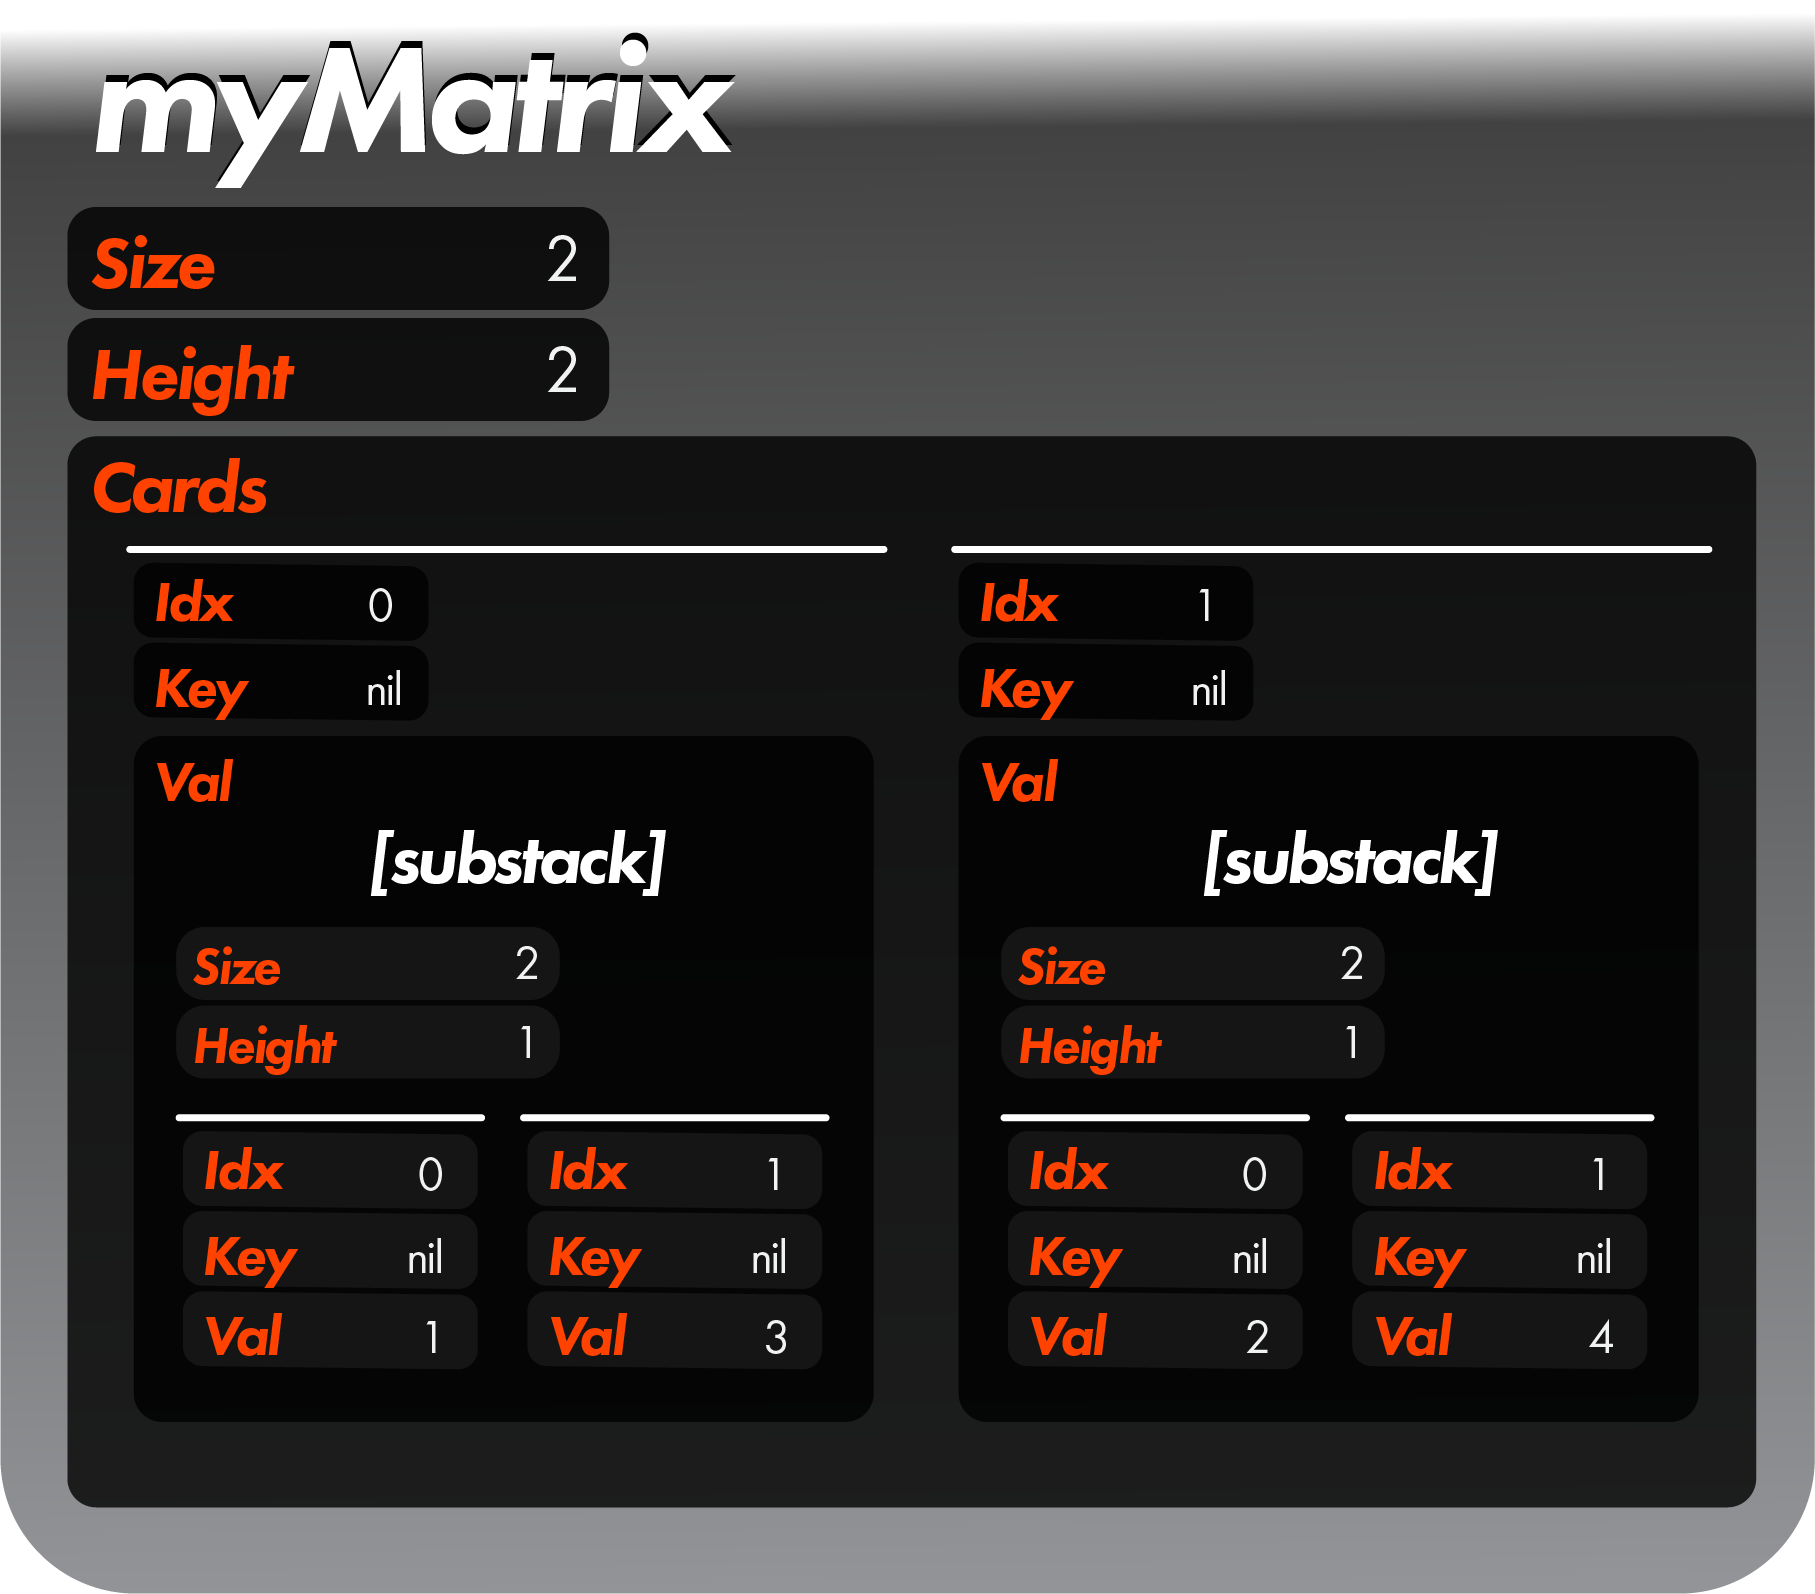
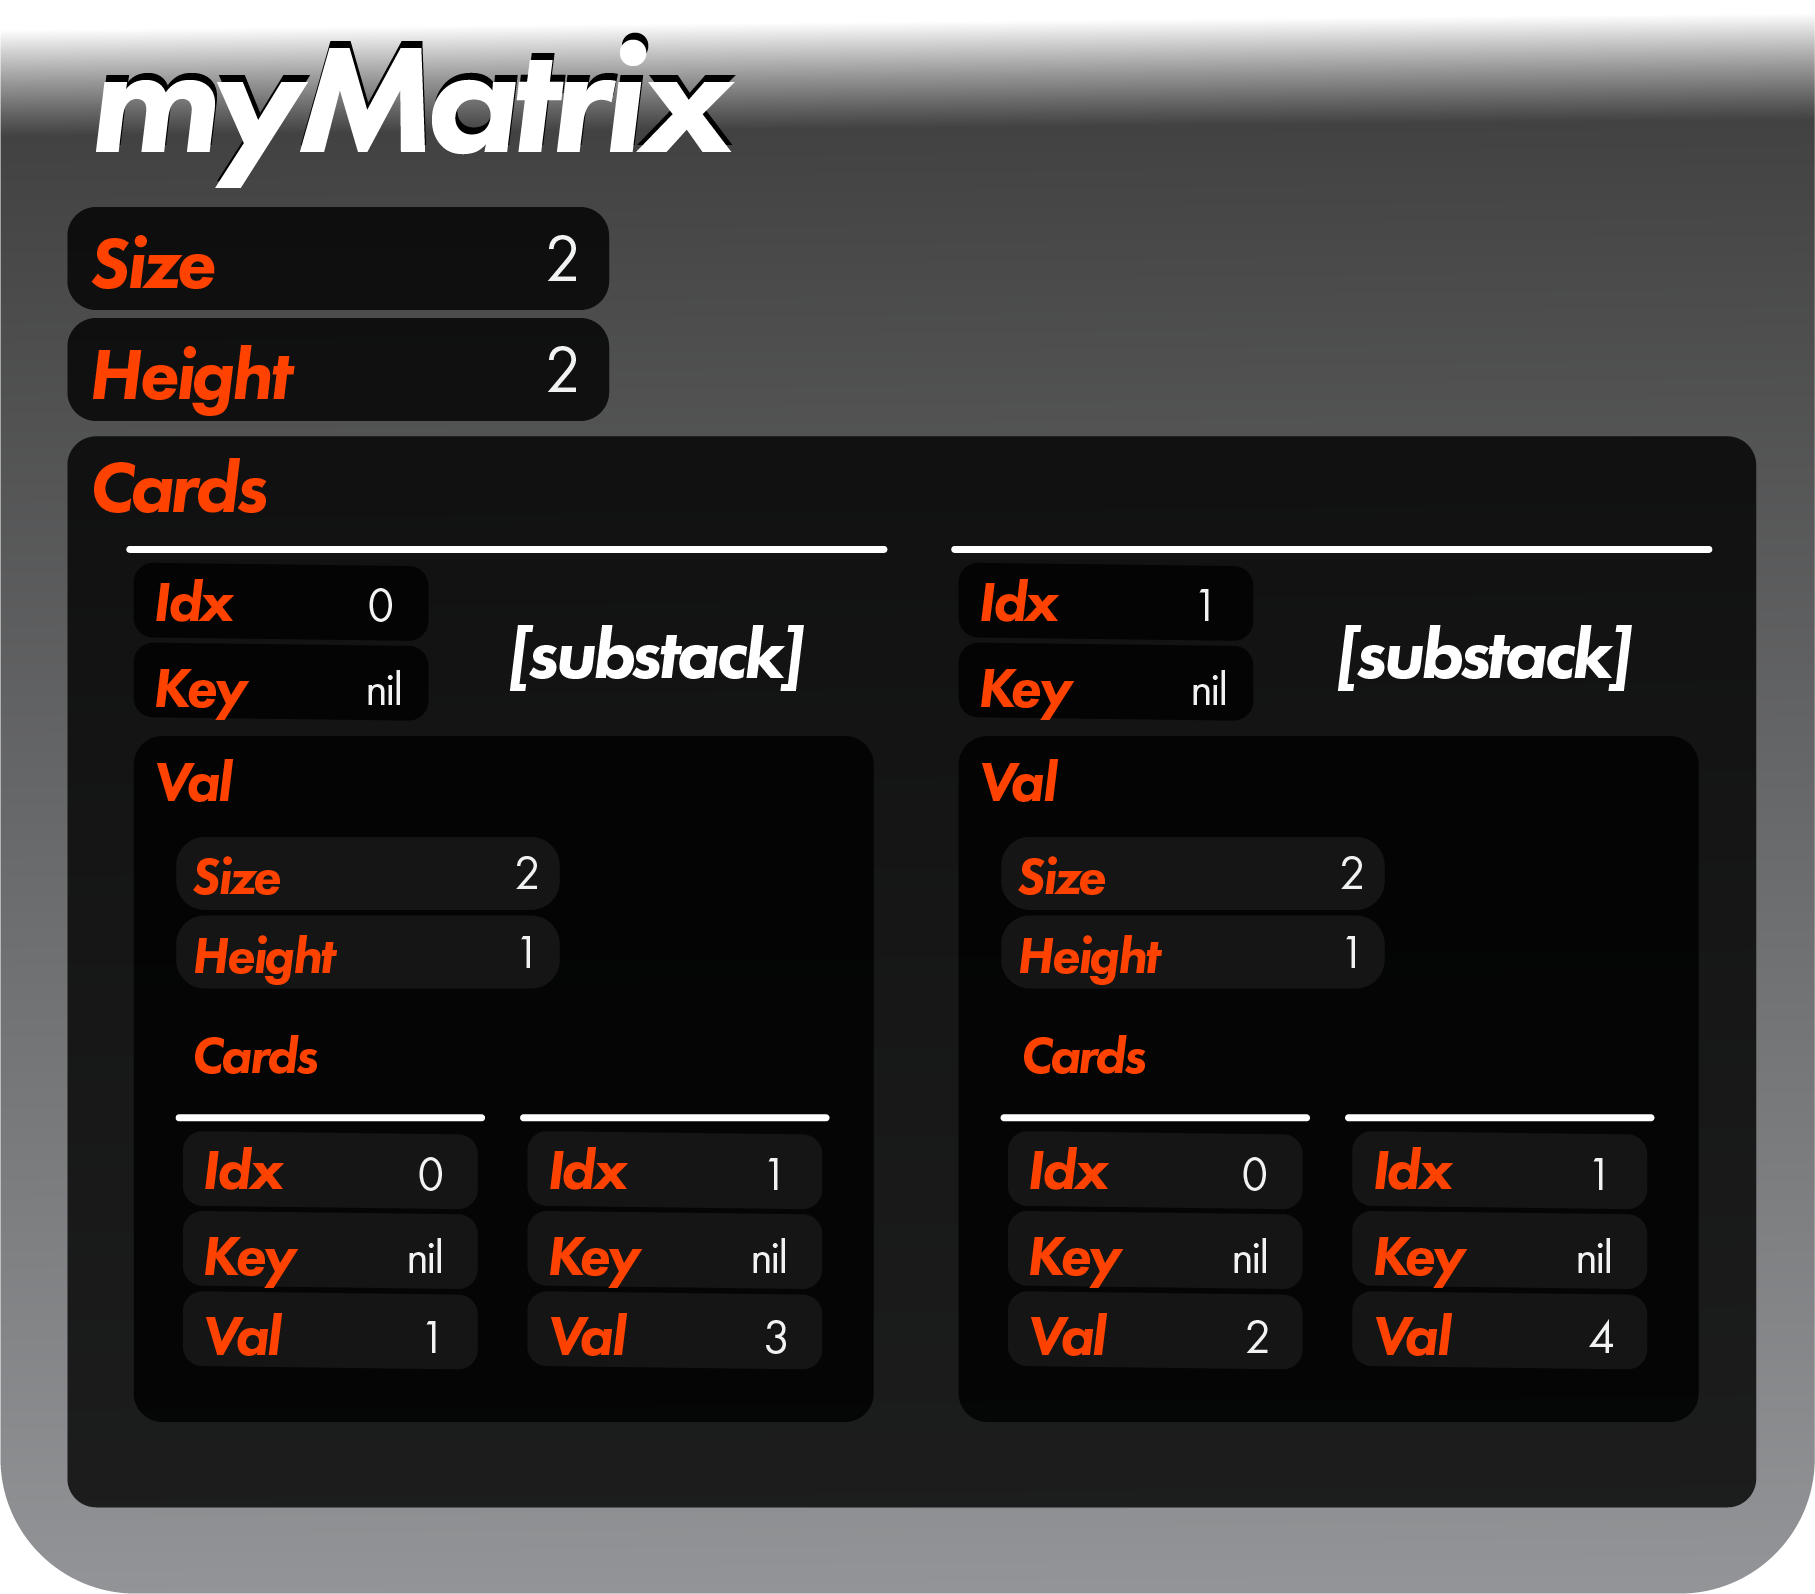
Debugged/improved dereference, added to enums

diff --git a/backend.go b/backend.go
@@ -42,11 +42,11 @@ func compareDereference(dereferenceType DEREFERENCE, found, this any) bool {
 	case DEREFERENCE_Both:
 		return gogenerics.PointersEqual(found, this)
 	case DEREFERENCE_Found:
-		return gogenerics.IsPointer(found) && reflect.DeepEqual(reflect.ValueOf(found).Elem(), this)
+		return gogenerics.IsPointer(found) && reflect.DeepEqual(reflect.ValueOf(found).Elem().Interface(), this)
 	case DEREFERENCE_This:
-		return gogenerics.IsPointer(this) && reflect.DeepEqual(found, reflect.ValueOf(this).Elem())
+		return gogenerics.IsPointer(this) && reflect.DeepEqual(found, reflect.ValueOf(this).Elem().Interface())
 	}
-		return false
+	return false
 }
 
 /** hatstack type{any, []any, *Stack} */
@@ -122,9 +122,9 @@ func selectCard(findType any, findData any, dereferenceType any, findCompareRaw 
 		}
 		return needleInHaystack(card.Idx, haystack, DEREFERENCE_None)
 	case FIND_Key:
-		return match(getPointer(card.Key, false), findData, override, dereferenceType.(DEREFERENCE))
+		return match(getPointer(card.Key, true), findData, override, dereferenceType.(DEREFERENCE))
 	case FIND_Val:
-		return match(getPointer(card.Val, false), findData, override, dereferenceType.(DEREFERENCE))
+		return match(getPointer(card.Val, true), findData, override, dereferenceType.(DEREFERENCE))
 	case FIND_Card:
 		return fmt.Sprintf("%p", card) == fmt.Sprintf("%p", findData.(*Card))
 	case FIND_Size:

diff --git a/testing/CaseEnd.go b/testing/CaseEnd.go
@@ -1113,9 +1113,11 @@ func case_stack_Get(funcName string) {
 
 	// more pointer tests
 	card26 := MakeStack([]any {intValA, intValB, intValC}).Get(FIND_Val, intValD, nil, nil, nil, DEREFERENCE_None)
-	fmt.Println("Before")
 	card27 := MakeStack([]any {intValA, intValB, intValC}).Get(FIND_Val, intValD, nil, nil, nil, DEREFERENCE_Both)
-	fmt.Println("After")
+	card28 := MakeStack([]any {intValA, intValB, intValC}).Get(FIND_Val, 2, nil, nil, nil, DEREFERENCE_Found)
+	card29 := MakeStack([]any {1, 2, 3}).Get(FIND_Val, intValD, nil, nil, nil, DEREFERENCE_This)
+	card30 := MakeStack([]any {intValA, intValB, intValC}).Get(FIND_Val, intValB, nil, nil, nil, DEREFERENCE_Found)
+	card31 := MakeStack([]any {intValA, intValB, intValC}).Get(FIND_Val, intValD, nil, nil, nil, DEREFERENCE_This)
 
 	conditions := []bool {
 
@@ -1151,6 +1153,10 @@ func case_stack_Get(funcName string) {
 		// more pointer tests
 		!card26.Equals(MakeCard(intValB, nil, 1), nil, nil, COMPARE_True), // 26
 		card27.Equals(MakeCard(intValB, nil, 1), nil, nil, COMPARE_True), // 27
+		card28.Equals(MakeCard(intValB, nil, 1), nil, nil, COMPARE_True), // 28
+		card29.Equals(MakeCard(2, nil, 1), nil, nil, COMPARE_True), // 29
+		card30 == nil, // 30
+		card31 == nil, // 31
 
 	}
 

diff --git a/Library.go b/Library.go
@@ -1726,12 +1726,8 @@ func (stack *Stack) Has(arguments ...any) bool {
 	// get card
 	out := stack.LambdaCard(func(card *Card, parentStack *Stack, isSubstack bool, retStack *Stack, retCard *Card, retVarAdr any, otherInfo []any, wmadrs ...any) {
 
-		fmt.Println("trying")
-		
 		if selectCard(findType, findData, dereferenceType, findCompareRaw.(COMPARE), card, parentStack, isSubstack, retStack, retCard, retVarAdr, wmadrs...) && retCard.Idx == -1 {
 
-			fmt.Println("yo man uhh bro")
-			
 			*otherInfo[3].(**Card) = *otherInfo[0].(**Card)
 
 		}

diff --git a/executive/executive.go b/executive/executive.go
@@ -11,7 +11,7 @@ func main() {
 	gogenerics.RemoveUnusedError(testing.Run)
 
 	// tests
-	testing.Run(false)
+	testing.Run(true)
 
 	// tutorials
 	// tutorials.Bootstrap()

diff --git a/documentation/enumsAPI.md b/documentation/enumsAPI.md
@@ -202,16 +202,29 @@ Enumerators:
 
  > None, Both, Found, This
 
-A enumerator which decides whether to dereference the found data or the input data before checking for equality.  For instance:
+Assuming FIND is FIND_Key or FIND_Val, this enumerator which decides whether to dereference the key/val of the found cards data or the input data before checking for equality.  For instance, given `stack.Get(..., ..., ..., ..., ..., ..., dereferenceType DEREFERENCE)`:
 
 ```
-intValA := gogenerics.MakeInterface(1)
-intValB := gogenerics.MakeInterface(2)
-intValC := gogenerics.MakeInterface(3)
-card14 := MakeStack([]any {&intValA, &intValB, &intValC}).Get(FIND_Val, &intValB) // finds the first card that matches
-card15 := MakeStack([]any {&intValA, &intValB, &intValC}).Get(FIND_Val, intValB, nil, nil, nil, DEREFERENCE_Both)
-card15 := MakeStack([]any {&intValA, &intValB, &intValC}).Get(FIND_Val, 2, nil, nil, nil, DEREFERENCE_Found)
-card15 := MakeStack([]any {intValA, intValB, intValC}).Get(FIND_Val, &intValB, nil, nil, nil, DEREFERENCE_This)
+init1 := 1
+intValA = &init1
+init2 := 2
+intValB = &init2
+init3 := 3
+intValC = &init3
+init4 := 2
+intValD = &init4
+
+mainStack := MakeStack([]any {intValA, intValB, intValC})
+
+mainStack.Clone().Get(FIND_Val, intValB, nil, nil, nil, DEREFERENCE_None) // gets intValB since intValB == intValB
+mainStack.Clone().Get(FIND_Val, intValD, nil, nil, nil, DEREFERENCE_None) // doesn't get intValB since intValB != intValD
+
+mainStack.Clone().Get(FIND_Val, intValB, nil, nil, nil, DEREFERENCE_Both) // gets intValB since 2 == 2
+mainStack.Clone().Get(FIND_Val, intValD, nil, nil, nil, DEREFERENCE_Both) // gets intValB since 2 == 2
+
+mainStack.Clone().Get(FIND_Val, 2, nil, nil, nil, DEREFERENCE_Found) // gets intValB since *intValB == 2
+
+MakeStack([]any {1, 2, 3}).Get(FIND_Val, intValB, nil, nil, nil, DEREFERENCE_This) // gets 2 since 2 == *intValB
 ```
 
 Enumerators:
@@ -222,6 +235,38 @@ Enumerators:
  > DEREFERENCE_Found
 
  > DEREFERENCE_This
+
+<h2 name = "CLONE">CLONE</h2>
+
+ > True, False
+
+Provides information to a function on whether to clone the key/val of a substack or card.  For example, given `stack.Clone(..., ..., cloneCardKeys, cloneCardVals, cloneSubstackKeys, cloneSubstackVals CLONE)`:
+
+```
+myStack.Clone(nil, nil, CLONE_True, CLONE_False, CLONE_True, CLONE_True)
+// returns a clone of myStack such that each val of a card in the new stack contains the same object val as the original card, but each card's key is a clone of the original key and each substacks key or val is a clone of the original key or val
+```
+
+Enumerators:
+ > CLONE_True
+ 
+ > CLONE_False
+
+<h2 name = "DEEPSEARCH">DEEPSEARCH</h2>
+
+ > True, False
+
+Many functions have "deep search functionality".  This means they A) have a DEEPSEARCH parameter called `deepSearchType` and B) have an int/[]int/Stack{ints} parameter called `depth` which will act as a guide for which layers to consider in the deep search.  Sample:
+
+ > enumerator type's name
+ >> how the function will behave in its search
+
+Enumerators:
+ > DEEPSEARCH_True
+ >> the function will listen to the `depth` parameter in considering how deep it searches
+
+ > DEEPSEARCH_False
+ >> the function will ignore the `depth` parameter and only consider the immediate children of this stack
  
  ---
 

diff --git a/documentation/introduction.md b/documentation/introduction.md
@@ -4,7 +4,7 @@
 
 ***Go***, despite its elegance, can be excruciating.  We often find ourselves writing tedious code to complete conceptually simple tasks, adding a layer of complexity that distracts from the goal.  ***gostack*** introduces a novel system for data management which abstracts this layer of complexity into flexible yet intuitive functions so that you can focus on what matters.
 
- ***gostack*** introduces two new structs—the **Card** and the **Stack**—which intend to evoke the image of a stack of cards.  **Stacks**, which replace arrays, maps, and matrices, contain a set of **Cards**.  **Cards** can store **Stacks** (in turn called **Substacks**), thereby making **Stacks** a recursive data structure.  This allows ***gostack***'s functions to...
+ ***gostack*** introduces two new structs—the **Card** and the **Stack**—which intend to evoke the image of a stack of cards.  **Stacks**, which replace arrays, maps, and matrices, contain a set of **Cards**.  **Cards** can store **Stacks**, thereby making **Stacks** a recursive data structure.  This allows ***gostack***'s functions to...
 
  * abstract away for-loops, if-statements, and recursive functions
  * seamlessly translate between **Stacks** and existing arrays, maps, and matrices

diff --git a/documentation/overview.md b/documentation/overview.md
@@ -35,6 +35,8 @@
  
  <img src="../images/gostack_StackSample3.png" width="70%" style="margin-bottom: 10px;"/>
 
+ In a matrix structure, "substack" will refer to cards whose val is another stack, and "card" will refer to cards whose val is not another substack.
+
  The complexity of this tree structure may feel a lot more difficult to navigate than a traditional `[][]array` structure.  But worry not!  You won't have to navigate through this.  You can treat this as a data structure which looks like `{{1, 3}, {2, 4}}`.
 
  For instance, to set the key of every final card in a substack of `myMatrix` to "Number", we would simply do:
